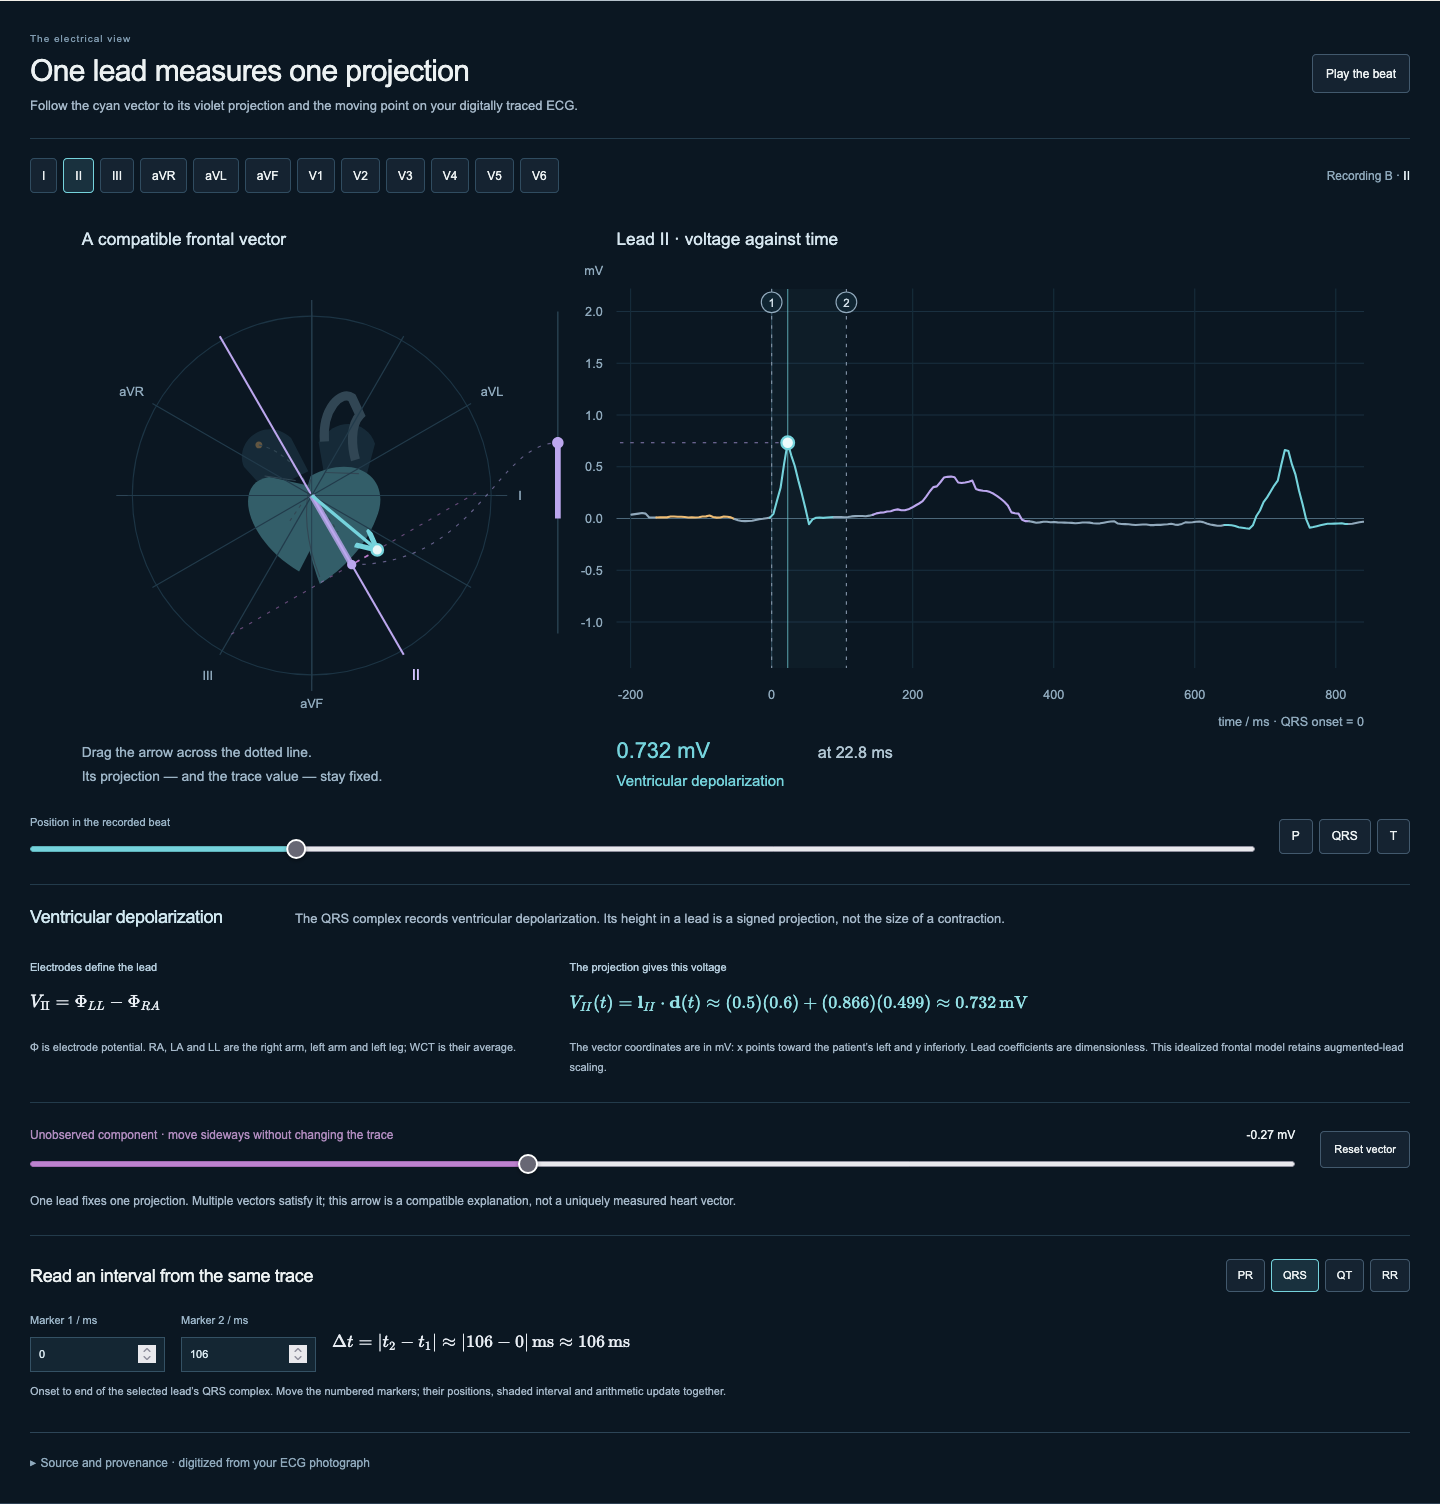
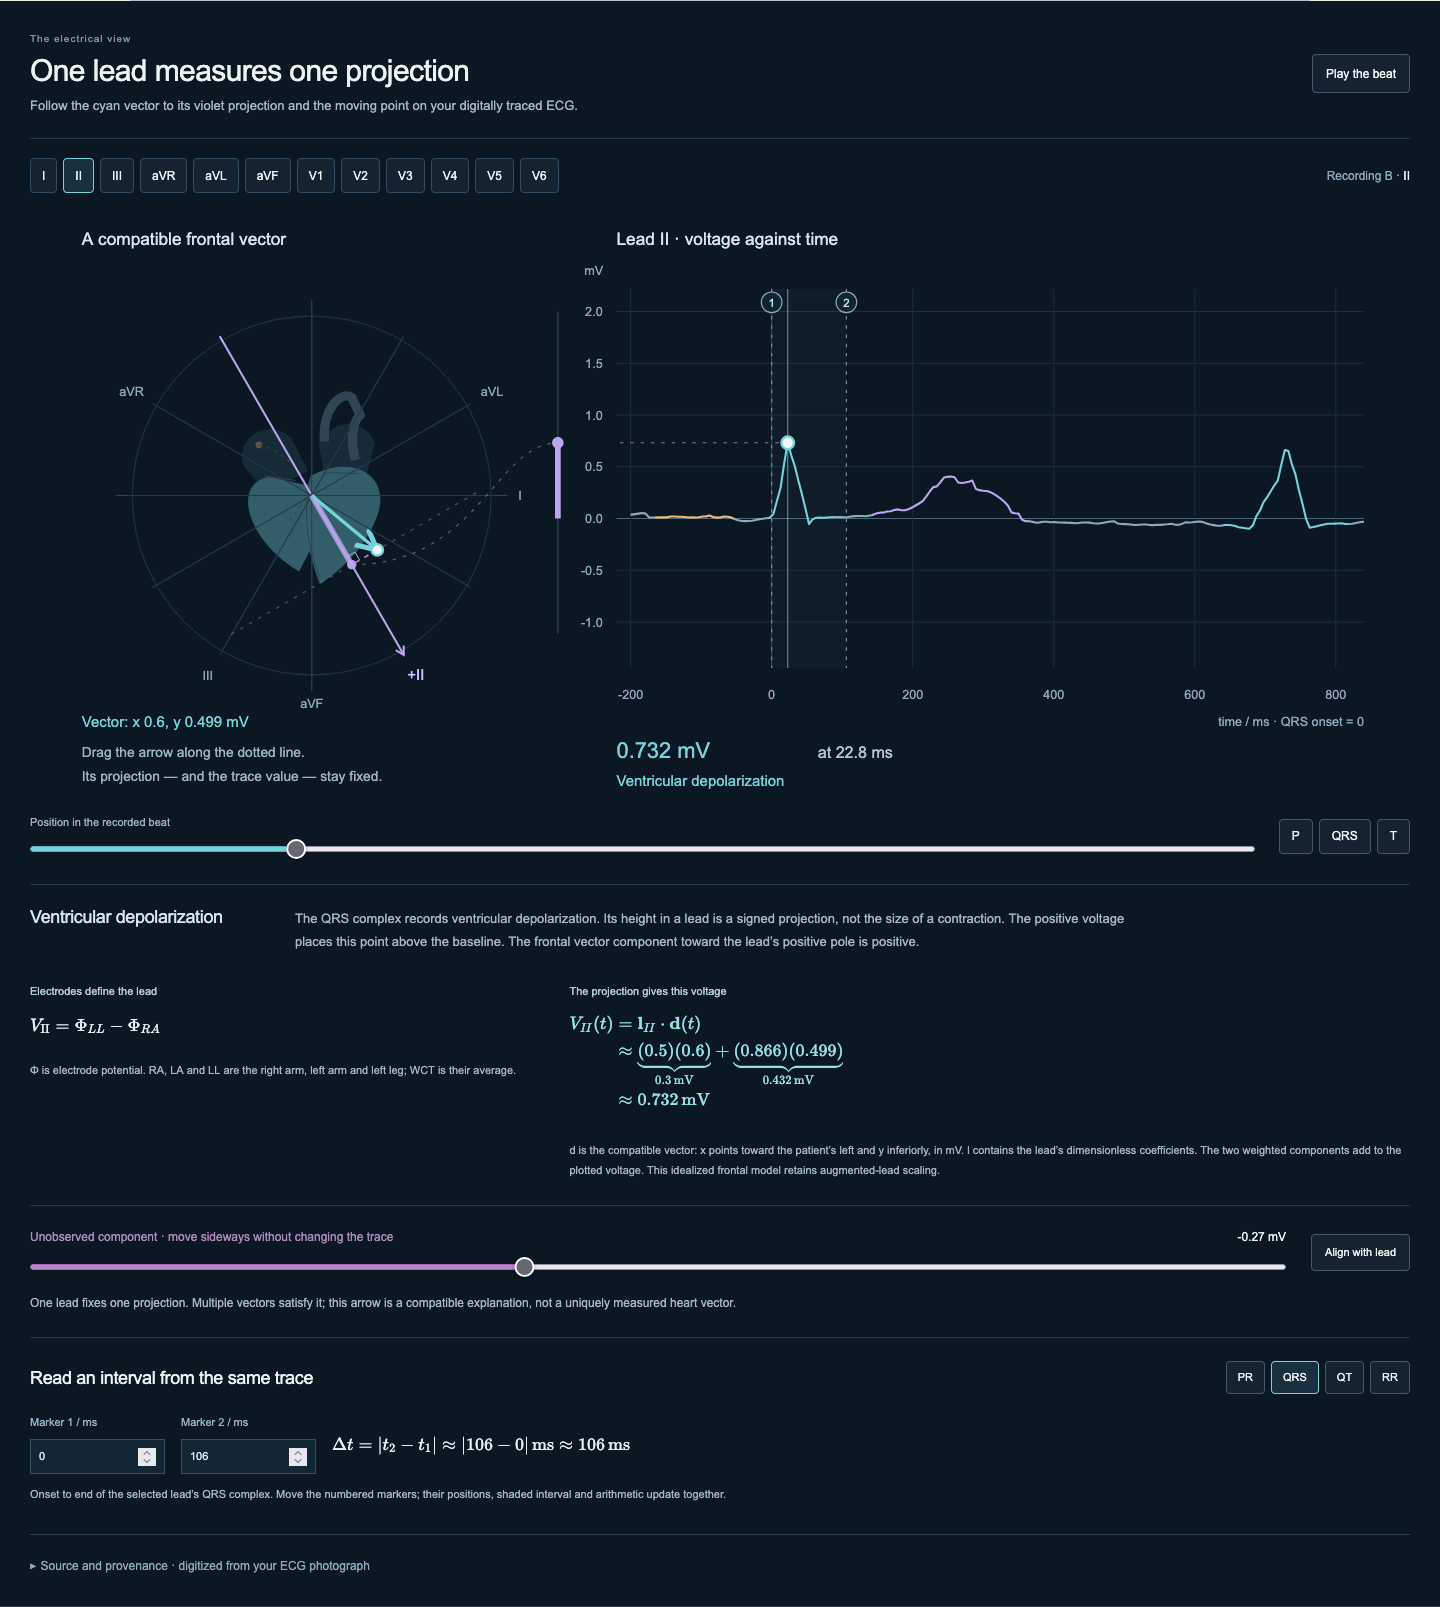
Make ECG projection geometry and numerical contributions explicit

diff --git a/arjan-portfolio/src/components/DigitalECGScene.tsx b/arjan-portfolio/src/components/DigitalECGScene.tsx
@@ -39,7 +39,7 @@ const EXPLANATIONS = {
   PR: "The PR segment follows atrial activation. The PR interval includes the P wave and runs to QRS onset.",
   QRS: "The QRS complex records ventricular depolarization. Its height in a lead is a signed projection, not the size of a contraction.",
   ST: "A near-baseline ST segment does not mean the heart is inactive: the ventricles are largely depolarized.",
-  T: "The T wave records ventricular repolarization. Recovery-front direction and electrical-vector direction are different concepts.",
+  T: "The T wave records ventricular repolarization. Recovery reverses the electrical polarity of the tissue boundary. An oppositely directed recovery sequence can therefore produce the same deflection sign as depolarization; the recovery sequence and its electrical vector are different directions.",
   next: "Corresponding QRS features mark the next ventricular cycle.",
   baseline:
     "A small reading means a small projection along this lead; other electrical components can still exist.",
@@ -50,7 +50,7 @@ export function DigitalECGScene() {
     [retry, setRetry] = useState(0);
   const [lead, setLead] = useState<ConnectionLead>("II"),
     [time, setTime] = useState(38),
-    [sideways, setSideways] = useState(0),
+    [sideways, setSideways] = useState(-0.45),
     [playing, setPlaying] = useState(false);
   const [kind, setKind] = useState<ConnectedInterval>("QRS"),
     [calipers, setCalipers] = useState<readonly [number, number]>([0, 85]);
@@ -148,7 +148,7 @@ export function DigitalECGScene() {
   function selectLead(next: ConnectionLead) {
     setLead(next);
     setPlaying(false);
-    setSideways(0);
+    setSideways(-0.45);
     if (data) {
       const r = data.records.find((r) => r.lead === next)!;
       setTime(Math.max(r.points[0][0], Math.min(time, r.points.at(-1)![0])));
@@ -446,8 +446,27 @@ export function DigitalECGScene() {
                             textAnchor="middle"
                             className={lead === l ? s.activeAxis : s.axisText}
                           >
+                            {lead === l ? "+" : ""}
                             {l}
                           </text>
+                          {lead === l && (
+                            <path
+                              d="M-7-4L0 0L-7 4"
+                              transform={
+                                "translate(" +
+                                n(CX + ux * 160) +
+                                " " +
+                                n(CY + uy * 160) +
+                                ") rotate(" +
+                                (Math.atan2(uy, ux) * 180) / Math.PI +
+                                ")"
+                              }
+                              fill="none"
+                              stroke="#bca7ee"
+                              strokeWidth="1.8"
+                              pointerEvents="none"
+                            />
+                          )}
                         </g>
                       );
                     })}
@@ -478,6 +497,35 @@ export function DigitalECGScene() {
                       strokeWidth="1.5"
                       strokeDasharray="4 5"
                     />
+                    {Math.abs(sideways) > 0.12 && (
+                      <polyline
+                        data-projection-right-angle
+                        points={[
+                          [-vector.unit[0] * 8, -vector.unit[1] * 8],
+                          [
+                            -vector.unit[0] * 8 +
+                              Math.sign(sideways) * vector.normal[0] * 8,
+                            -vector.unit[1] * 8 +
+                              Math.sign(sideways) * vector.normal[1] * 8,
+                          ],
+                          [
+                            Math.sign(sideways) * vector.normal[0] * 8,
+                            Math.sign(sideways) * vector.normal[1] * 8,
+                          ],
+                        ]
+                          .map(
+                            ([dx, dy]) =>
+                              n(CX + vector.foot[0] * VS + dx) +
+                              "," +
+                              n(CY + vector.foot[1] * VS + dy),
+                          )
+                          .join(" ")}
+                        fill="none"
+                        stroke="#bca7ee"
+                        strokeWidth="1"
+                        pointerEvents="none"
+                      />
+                    )}
                     <line
                       x1={CX}
                       y1={CY}
@@ -510,6 +558,15 @@ export function DigitalECGScene() {
                       fill="#bca7ee"
                       pointerEvents="none"
                     />
+                    <text
+                      x="45"
+                      y="451"
+                      fill="#75d3dc"
+                      fontSize={compact ? 17 : 13}
+                    >
+                      Vector: x {n(vector.vector[0])}, y {n(vector.vector[1])}{" "}
+                      mV
+                    </text>
                     <text x="45" y="477" className={s.caption}>
                       Drag the arrow along the dotted line.
                     </text>
@@ -823,7 +880,7 @@ export function DigitalECGScene() {
               </span>
               {vector ? (
                 <MathText
-                  tex={`V_{${lead}}(t)=\\mathbf l_{${lead}}\\cdot\\mathbf d(t)\\approx(${n(vector.field[0])})(${n(vector.vector[0])})+(${n(vector.field[1])})(${n(vector.vector[1])})\\approx${n(value.voltageMv)}\\,\\mathrm{mV}`}
+                  tex={`\\begin{aligned}V_{${lead}}(t)&=\\mathbf l_{${lead}}\\cdot\\mathbf d(t)\\\\&\\approx\\underbrace{(${n(vector.field[0])})(${n(vector.vector[0])})}_{${n(vector.field[0] * vector.vector[0])}\\,\\mathrm{mV}}+\\underbrace{(${n(vector.field[1])})(${n(vector.vector[1])})}_{${n(vector.field[1] * vector.vector[1])}\\,\\mathrm{mV}}\\\\&\\approx${n(value.voltageMv)}\\,\\mathrm{mV}\\end{aligned}`}
                   reading={`Lead coefficients ${n(vector.field[0])} and ${n(vector.field[1])} multiply compatible vector coordinates ${n(vector.vector[0])} and ${n(vector.vector[1])}; their sum is ${n(value.voltageMv)} millivolts.`}
                 />
               ) : (
@@ -834,7 +891,7 @@ export function DigitalECGScene() {
               )}
               <p>
                 {vector
-                  ? "The vector coordinates are in mV: x points toward the patient’s left and y inferiorly. Lead coefficients are dimensionless. This idealized frontal model retains augmented-lead scaling."
+                  ? "d is the compatible vector: x points toward the patient’s left and y inferiorly, in mV. l contains the lead’s dimensionless coefficients. The two weighted components add to the plotted voltage. This idealized frontal model retains augmented-lead scaling."
                   : "Chest voltages cannot be recovered from a frontal-axis angle alone."}
               </p>
             </div>
@@ -857,7 +914,7 @@ export function DigitalECGScene() {
                   }}
                 />
               </label>
-              <button onClick={() => setSideways(0)}>Reset vector</button>
+              <button onClick={() => setSideways(0)}>Align with lead</button>
               <p>
                 One lead fixes one projection. Multiple vectors satisfy it; this
                 arrow is a compatible explanation, not a uniquely measured heart
@@ -953,6 +1010,13 @@ export function DigitalECGScene() {
                 rel="noreferrer"
               >
                 Lead definitions and model assumptions
+              </a>
+              <a
+                href="https://bem.fi/book/06/06.htm"
+                target="_blank"
+                rel="noreferrer"
+              >
+                Electrical activation and recovery
               </a>
             </div>
             {sourceBounds && (

diff --git a/arjan-portfolio/Documentation/Validation/ReasonOS/README.md b/arjan-portfolio/Documentation/Validation/ReasonOS/README.md
@@ -54,6 +54,12 @@ field l and voltage V, the displayed compatible vector is
 This demonstrates the non-unique inverse of a single-lead projection; it does not
 reconstruct the patient's instantaneous heart vector. Chest leads display their
 own traced voltage and electrode definition without a fabricated frontal vector.
+The opening vector has a deliberately chosen perpendicular component so that its
+projection is visible immediately. The selected lead's positive pole, projection
+right angle and live vector coordinates connect the drawing to the weighted
+components in the calculation. The align action removes the perpendicular component.
+The T-wave explanation distinguishes recovery sequence from electrical polarity,
+with the electrophysiology source linked under provenance.
 Digital interval fiducials are author annotations, not clinical evidence admitted
 by ReasonOS. Interpolation adds no acquisition precision.
 
